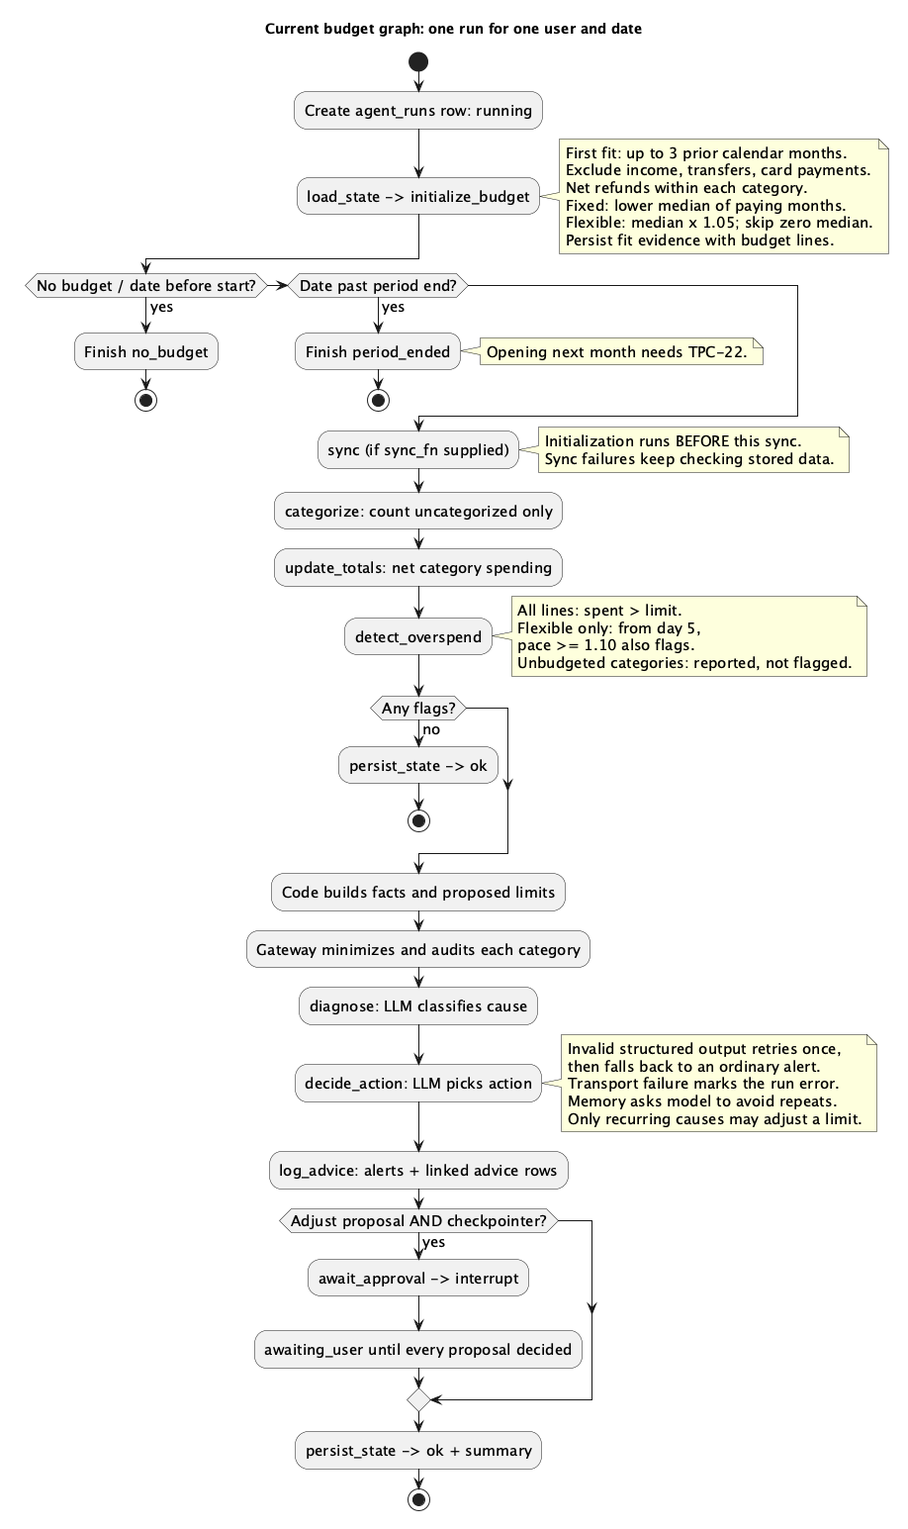
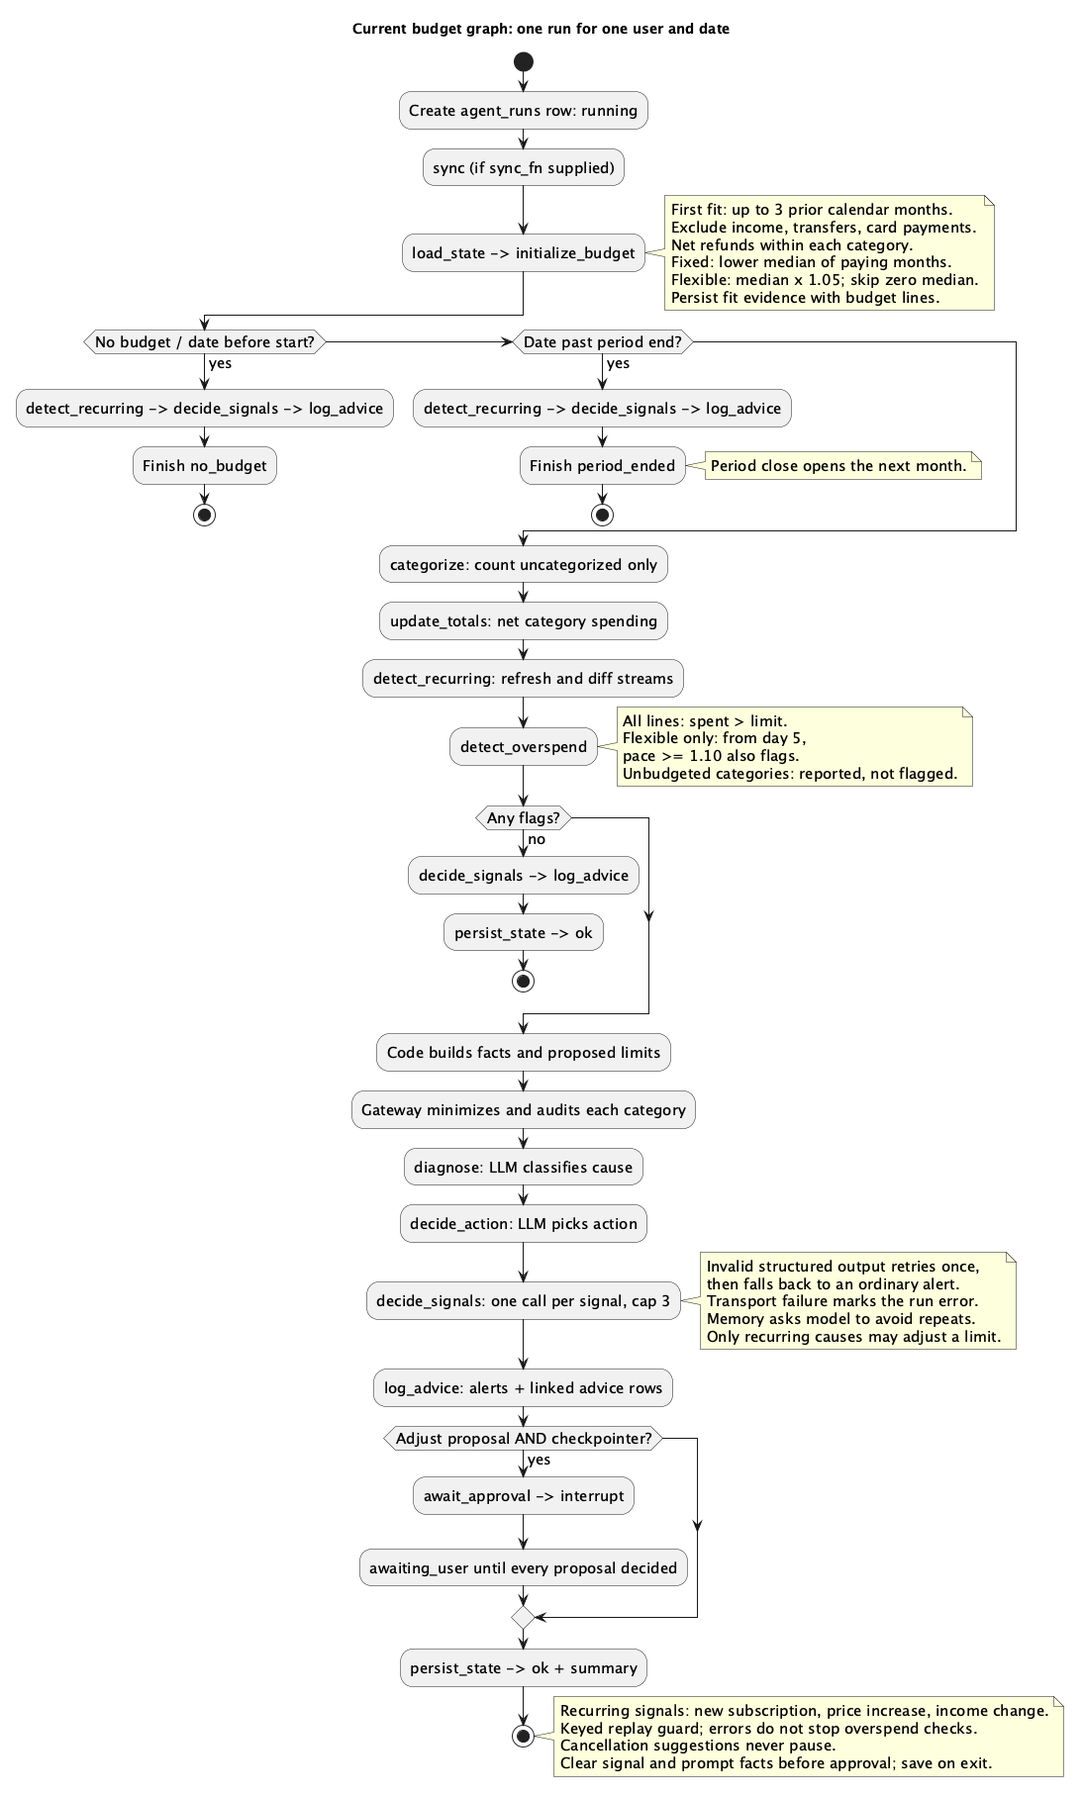
docs(TPC-33): recurring streams end to end, docs and manual verification

Changed region(s): [[0.0305, 0.0, 1.0, 0.9942]]

diff --git a/backend/tests/test_recurring_loop.py b/backend/tests/test_recurring_loop.py
@@ -1,0 +1,76 @@
+from datetime import date
+
+import pytest
+
+from app import config
+from app.api import budget_hooks
+from app.budget_engine.recurring import monthly_cents
+from app.budget_engine.signals import cancel_limit
+from app.budget_service.alerts import decide_alert
+from app.budget_service.simulate import advance_days
+from app.db.models import Alert, BudgetPeriod
+from eval.budget_users import RECURRING_USERS, seed_profile
+from tests.fakes import SchemaReplyModel
+
+
+@pytest.fixture
+def month(db, tmp_path, monkeypatch):
+    monkeypatch.setattr(config, "PROMPT_AUDIT_PATH", tmp_path / "audit.jsonl")
+    monkeypatch.setattr(config, "DEV_USER_EMAIL", "recurring-planted@eval.local")
+    monkeypatch.setattr(budget_hooks, "session_factory", db)
+    with db() as s:
+        uid = seed_profile(s, RECURRING_USERS[0], until=date(2026, 9, 30))
+    model, days = SchemaReplyModel(signal_action="suggest_cancel"), {}
+    def record(day):
+        with db() as s:
+            days[day["date"]] = [(a.kind, a.message) for a in s.query(Alert).filter_by(user_id=uid)]
+    advance_days(db, uid, 25, model=model, checkpointer=None, on_day=record)
+    return uid, model, days
+
+
+def test_every_planted_stream_is_detected(client, month):
+    body = client.get("/recurring").json()
+    assert {r["label"] for r in body["streams"]} == {"Landlord", "Income", "Streamly", "FitClub Gym", "Clipflix", "NewFlix"}
+    assert next(r for r in body["streams"] if r["direction"] == "in")["frequency"] == "biweekly"
+
+
+def test_the_gym_price_alert_fires_on_the_run_after_the_higher_charge(month):
+    _, _, days = month
+    assert not any(k == "price_increase" for k, _ in days["2026-10-02"])
+    for day in ("2026-10-03", "2026-10-25"):
+        messages = [m for k, m in days[day] if k == "price_increase" and "FitClub Gym" in m]
+        assert len(messages) == 1 and "$40.00" in messages[0] and "$43.00" in messages[0]
+
+
+def test_a_rise_over_ten_percent_also_alerts(month):
+    _, _, days = month
+    assert not any(k == "price_increase" and "Clipflix" in m for k, m in days["2026-10-19"])
+    assert len([m for k, m in days["2026-10-20"] if k == "price_increase" and "Clipflix" in m]) == 1
+
+
+def test_the_new_subscription_alert_fires_when_its_third_charge_posts(month):
+    _, _, days = month
+    assert not any(k == "new_subscription" for k, _ in days["2026-10-11"])
+    [message] = [m for k, m in days["2026-10-12"] if k == "new_subscription"]
+    assert "NewFlix" in message
+    assert len([m for k, m in days["2026-10-25"] if k == "new_subscription"]) == 1
+
+
+def test_a_merchant_with_two_visits_is_never_a_stream(client, month):
+    assert not any(name in client.get("/recurring").text for name in ("Pottery Studio", "Grocer", "Fuel"))
+
+
+def test_accepting_a_cancel_suggestion_reaches_next_months_line(client, db, month):
+    uid, model, _ = month
+    with db() as s:
+        alert = next(a for a in s.query(Alert).filter_by(user_id=uid, kind="price_increase") if "Clipflix" in a.message)
+        assert alert.action == "suggest_cancel"
+        alert_id = alert.id
+    decide_alert(db, uid, alert_id, "accepted")
+    advance_days(db, uid, 7, model=model, checkpointer=None)
+    with db() as s:
+        period = s.query(BudgetPeriod).filter_by(user_id=uid, start_date=date(2026, 11, 1)).one()
+        line = next(ln for ln in period.lines if ln.category == "ENTERTAINMENT")
+        from app.db.models import AgentRun
+        [outcome] = s.query(AgentRun).filter_by(user_id=uid, graph="close").one().summary_json["cancel_outcomes"]
+        assert line.limit_cents == outcome["new_cents"] == cancel_limit(outcome["old_cents"], monthly_cents(1799, "monthly"))

diff --git a/backend/tests/fakes.py b/backend/tests/fakes.py
@@ -106,6 +106,7 @@ class SchemaReplyModel(BaseChatModel):
     seen: list = Field(default_factory=list)
     cause: str = "one_time"
     first_action: str = "alert"
+    signal_action: str = "alert"
 
     @property
     def _llm_type(self) -> str:
@@ -116,6 +117,8 @@ class SchemaReplyModel(BaseChatModel):
         title = (kwargs.get("format") or {}).get("title")
         if title == "Diagnosis":
             body = {"cause": self.cause, "evidence": "One purchase explains it."}
+        elif title == "SignalAction":
+            body = {"action": self.signal_action, "message": "A recurring change needs a look."}
         elif "Earlier alerts for this category this month: none" in str(messages[-1].content):
             body = {"action": self.first_action, "message": "This category is over budget."}
         else:

diff --git a/backend/tests/test_m3_demo.py b/backend/tests/test_m3_demo.py
@@ -48,7 +48,7 @@ def test_m3_demo(db):
     run_day = {d["run_id"]: date.fromisoformat(d["date"]) for d in days}
 
     with db() as s:
-        alert = s.query(Alert).filter_by(user_id=uid, category=GYM).order_by(Alert.id).first()
+        alert = s.query(Alert).filter_by(user_id=uid, category=GYM, kind="overspend").order_by(Alert.id).first()
         advice = s.query(AdviceLog).filter_by(alert_id=alert.id).one()
         october = {ln.category: ln for ln in period(s, uid, OCT).lines}
         oct_actuals = {ln.category: ln.spent_cents for ln in october.values()}

diff --git a/docs/handoffs/2026-11-02-tpc-33-manual-verification.md b/docs/handoffs/2026-11-02-tpc-33-manual-verification.md
@@ -1,0 +1,63 @@
+# TPC-33 recurring streams: manual verification
+
+Tasks 1–8 are implemented. Recurring charges and income now appear on the dashboard and through `GET /recurring` and `get_recurring()` in chat. Daily runs alert on new subscriptions, price increases and income changes. Accepted cancellation suggestions lower the next budget line once and mute later signals, without pausing or cancelling anything with a merchant.
+
+## Setup
+
+Use a disposable database and checkpoint directory. From the repo root, in terminal 1:
+
+```bash
+cd backend
+export TPC33_CHECK_DIR="$(mktemp -d /tmp/tpc33-manual.XXXXXX)"
+export DATABASE_URL="sqlite:///${TPC33_CHECK_DIR}/recurring.db"
+export PROMPT_AUDIT_PATH="${TPC33_CHECK_DIR}/audit.jsonl"
+export BUDGET_CHECKPOINT_PATH="${TPC33_CHECK_DIR}/budget.db"
+export CHAT_CHECKPOINT_PATH="${TPC33_CHECK_DIR}/chat.db"
+export FERNET_KEY="$(../venv/bin/python -c 'from cryptography.fernet import Fernet; print(Fernet.generate_key().decode())')"
+../venv/bin/alembic upgrade head
+../venv/bin/python scripts/seed_budget_user.py --profile recurring-planted --replace --start 2026-09-30
+DEV_USER_EMAIL=recurring-planted@eval.local ENABLE_ADMIN=1 ../venv/bin/uvicorn app.main:app
+```
+
+Start Ollama with the configured chat model for interactive advice. In terminal 2 start `npm run dev` from `frontend/`; open the dashboard at localhost:3000. Use the Alerts page's advance controls, or run `scripts/simulate.py --user budget-recurring-planted --days 25` from `backend/` with the same exported database and checkpoint variables. Do not advance the same user concurrently through both interfaces.
+
+## Checks
+
+1. Advance to Oct 2. The recurring card lists Landlord, Income (biweekly), Streamly, FitClub Gym and Clipflix. Pottery Studio, Grocer and Fuel are absent. No new-subscription flood occurs.
+2. Advance one day. One gym price alert says $40.00 to $43.00. Its dashboard badge says `Price up $40.00 to $43.00`. Repeat a daily run and no duplicate recurring alert appears.
+3. Advance to Oct 12. NewFlix appears after its third charge, with one new-subscription alert. The Alerts page uses the new signal labels rather than `Over limit`.
+4. Advance to Oct 20 and then Oct 25. Clipflix gets one price alert, despite its rise exceeding 10%. All six planted streams remain listed.
+5. If the model chooses `suggest_cancel`, accept it and advance past month-end. The category's next line applies accepted adjustments first, then subtracts the stream's normalized monthly typical amount, rounding up to $5. It skips a missing line or nonpositive result and records that outcome. The same accepted stream is not subtracted again next month. Pending cancellation suggestions remain answerable after month-end. Nothing cancels the merchant subscription automatically.
+6. A new user has the empty recurring text and history hint. Inflows use Income rather than employer names. Stopped streams appear under No longer seen.
+7. In chat ask `What subscriptions do I have?`. Inspect the tool chip for `get_recurring` and the audit for scrubbed outflow names, dollars and no employer name. Live model selection of this sixth tool has not been run here.
+
+After a second charge at a higher price, `previous_cents` clears and the row badge becomes `Price up`; the original alert retains both figures. This is expected.
+
+## Automated evidence
+
+Offline backend: **1,160 passed, 22 live/sandbox cases excluded**. Frontend: **122 passed**. Lint and TypeScript checks passed. End-to-end tests advance real daily runs from Sep 30 through Oct 25, verify the exact first alert dates and accept a cancellation through the real close path. Checkpoint tests inspect SQLite rows, graph snapshots and file bytes and successfully resume.
+
+`venv/bin/python eval/recurring_accuracy.py` passed:
+
+| Profiles | Precision | Recall | False streams | Misses |
+|---|---:|---:|---:|---:|
+| Each of all 12 profiles | 1.00 | 1.00 | 0 | 0 |
+| Pooled | 1.00 | 1.00 | 0 | 0 |
+
+Noisy everyday share: 1.0. Monthly next dates: 372 cases; 313 within one day, maximum error two days (241 exact, 72 one day, 59 two days).
+
+PlantUML was available; the data-model, budget-loop and lifecycle SVGs and PNGs were rendered. Pre-existing documentation and diagram edits remain in the working tree; only recurring additions were staged for this work.
+
+The production build was attempted with both bundlers. Turbopack is blocked by local worker-port binding (`Operation not permitted`), including the escalated attempt. The webpack fallback cannot resolve `fonts.googleapis.com` for the existing Geist fonts. These environment failures remain unverified production-build checks; they were not counted as passing. No app font or build configuration was changed to conceal them.
+
+## Not run and known limits
+
+Postgres migration, real Plaid streams and live chat tool choice were not run. Measurements remain synthetic. The detector's short-gap, restart, skipped-month and price-step behavior is covered offline; annual detection is deferred. Price creep below the threshold stays silent; a large rise can alert on its second charge; metered utilities deliberately do not raise rate-change alerts. Subscription categories remain flexible budget lines, so early-month pace flags remain possible.
+
+For a later Plaid comparison: use Sandbox credentials and an Item linked after the 180-day request change; add a client wrapper for `/transactions/recurring/get`; match its rows to ours by normalized merchant key, direction and frequency; report agreement separately from synthetic precision and recall. That wrapper/comparison is not built. Existing Items need relinking to request longer history. The metered utility taxonomy names still need confirmation against the applicable Plaid category version.
+
+PR #23's description warning from the investigation remains open: avoid mentioning an unfinished ticket in a merged PR description because the Jira trigger may close it. No PR text or Jira state was changed by this work.
+
+## Next handoff
+
+Continue with the approved [cash-flow forecast plan](../superpowers/plans/2026-11-02-tpc-31-cash-flow-forecast.md) on a new branch from this work. It reuses the detector, calendar projection, signal decisions and current/no-current-budget routing. Preserve the unrelated local documentation, diagram and old eval-result edits.

diff --git a/README.md b/README.md
@@ -193,6 +193,22 @@ The API has `PUT /budget/style`, `PATCH /budget/lines/{id}` (rename a line, or m
 
 The dashboard's **Paying off your debts** card compares the two usual ways to pay off debt: **avalanche** (highest APR first) and **snowball** (smallest balance first). Type an extra amount per month and it shows each method's months to debt-free, total interest, the month each debt is paid off, and what the extra saves. In chat, ask "How fast am I debt-free if I add $200 a month?" and the answer comes from the same simulation. It charges interest monthly at APR/12 and holds minimum payments at today's amounts, so it's for comparing plans, not predicting a statement. Debts with no APR or minimum on file are listed and left out. The API is `POST /debt-plan`.
 
+## Recurring charges
+
+The dashboard lists stored recurring charges and income between Goals and Transactions. The daily run detects posted transactions over 180 days, raises new-subscription, price-increase and income-change alerts, and keeps stopped streams in a muted group. Chat can answer "What subscriptions do I have?" with `get_recurring`; `GET /recurring` reads the same stored data without running detection.
+
+Accepting an optional `suggest_cancel` lowers the category's next budget line once, after accepted budget adjustments, rounded up to $5. It does not cancel anything with a merchant. Pending suggestions survive month-end, and accepted streams stop raising recurring signals. These alerts do not pause the run.
+
+```bash
+cd backend
+../venv/bin/python scripts/seed_budget_user.py --profile recurring-planted --replace --start 2026-09-30
+DEV_USER_EMAIL=recurring-planted@eval.local ENABLE_ADMIN=1 ../venv/bin/uvicorn app.main:app
+# in another terminal, with the same disposable DATABASE_URL:
+../venv/bin/python scripts/simulate.py --user budget-recurring-planted --days 25
+```
+
+Use a disposable database as described in [the recurring verification handoff](docs/handoffs/2026-11-02-tpc-33-manual-verification.md). New Plaid Items request 180 days; existing Items need relinking. The offline detector gate is `venv/bin/python eval/recurring_accuracy.py` from the repo root.
+
 ## Goals
 
 Open **Goals** from the dashboard header. **Generate goals** asks the goal agent to work out what you have left in a typical month, asks the local model for 1-3 goals (debt payoff, emergency fund, savings) that fit within 80% of it, and computes each goal's target and date. High-interest debt comes first. Accept or dismiss each goal on its own. An accepted goal shows on the dashboard's Goals card and joins the budget as a line (for example "Debt payoff: $583.00/mo") when the next month opens; the month under way never changes. **Stop** ends an accepted goal's line at the next close. A proposal you don't answer expires when that month opens, and you can generate again. The API is `POST /goals/generate`, `GET /goals/runs/{id}`, `POST /goals/{id}/accept` and `/dismiss`.

diff --git a/docs/system-walkthrough.md b/docs/system-walkthrough.md
@@ -27,7 +27,8 @@ Evidence: [API registration](../backend/app/main.py), [proxy](../frontend/next.c
 | Daily scheduler | Planned TPC-21 | Due-job policy, user timezone, overlap, missed runs and restart recovery |
 | Period close | Pure adjustment function implemented | TPC-22 orchestration: persist close and open next month atomically |
 | Debt simulation, goal agent, Goals page (TPC-23 to TPC-25) | Implemented: goals are proposed, accepted or dismissed per goal, and accepted goals become budget lines at the next close | No contribution tracking; the surplus is measured from history until TPC-31's forecast |
-| Recurring detection, cash forecast | Planned | Implement functions, tables, tools, UI and evaluations |
+| Recurring detection | Implemented: detector, stored streams, keyed signals, API, chat tool and dashboard card | Real Plaid comparison remains unverified |
+| Cash forecast | Planned | Implement forecast, buffer, surplus integration and evaluation |
 | Evaluation | Chat and initial-budget harnesses implemented | Longitudinal budget replay and explicit quality gates |
 
 ## 2. Linking and keeping bank data fresh
@@ -65,7 +66,7 @@ The design's strongest separation is already implemented: code computes limits, 
 Current arithmetic and defaults:
 
 - Fit up to three previous calendar months, excluding transfers, income and credit-card payments. Net refunds inside each category, with a floor of zero.
-- Fixed limits use the lower median of months with a payment. Current default fixed primary categories are `RENT_AND_UTILITIES` and `LOAN_PAYMENTS`; automatically recognizing subscriptions as fixed awaits recurring detection.
+- Fixed limits use the lower median of months with a payment. Current default fixed primary categories are `RENT_AND_UTILITIES` and `LOAN_PAYMENTS`; subscriptions remain inside primary categories; recurring detection does not yet convert them to fixed lines.
 - Flexible limits use the monthly median × 1.05. Zero-median categories are skipped. Outlier evidence explains the fit; it does not remove months and recompute the median.
 - All lines flag when actual spending exceeds the limit. Flexible lines also flag from day five when pace reaches 1.10. Fixed bills are not judged by daily pace.
 - Unbudgeted categories are listed but do not raise overspend alerts. Categorization currently counts missing categories rather than assigning them with an LLM.
@@ -152,3 +153,5 @@ All eight diagrams have editable `.puml` sources beside their `.svg` and `.png` 
 plantuml -tsvg -failfast2 docs/diagrams/*.puml
 plantuml -tpng -failfast2 docs/diagrams/*.puml
 ```
+
+Recurring signals and cancellation close behavior are implemented; see [the verification handoff](handoffs/2026-11-02-tpc-33-manual-verification.md).

diff --git a/docs/tests/test_recurring_loop.md b/docs/tests/test_recurring_loop.md
@@ -1,0 +1,43 @@
+# Tests: `backend/tests/test_recurring_loop.py`
+
+Run from `backend/`: `../venv/bin/python -m pytest tests/test_recurring_loop.py -v`.
+
+## Shared setup
+
+Each test seeds recurring-planted through Sep 30 and advances the real daily simulation through Oct 25 with a schema-aware scripted model. The model suggests cancellation on signals and avoids repeated overspend alerts. API identity and audits use the throwaway database.
+
+## `test_every_planted_stream_is_detected`
+
+**What it does:** GET /recurring lists the six planted streams, with generic Income and a biweekly cadence.
+
+**Why it's there:** Verifies the complete recurring seam from seeded charges through real daily runs and persisted results.
+
+## `test_the_gym_price_alert_fires_on_the_run_after_the_higher_charge`
+
+**What it does:** No gym price alert exists Oct 2; exactly one with $40 and $43 exists from Oct 3 through Oct 25.
+
+**Why it's there:** Verifies the complete recurring seam from seeded charges through real daily runs and persisted results.
+
+## `test_a_rise_over_ten_percent_also_alerts`
+
+**What it does:** Clipflix first alerts on Oct 20, despite its rise exceeding 10%.
+
+**Why it's there:** Verifies the complete recurring seam from seeded charges through real daily runs and persisted results.
+
+## `test_the_new_subscription_alert_fires_when_its_third_charge_posts`
+
+**What it does:** NewFlix alerts on its third charge, Oct 12, and older streams do not produce a subscription flood.
+
+**Why it's there:** Verifies the complete recurring seam from seeded charges through real daily runs and persisted results.
+
+## `test_a_merchant_with_two_visits_is_never_a_stream`
+
+**What it does:** Pottery Studio and everyday Grocer and Fuel remain absent from the recurring API.
+
+**Why it's there:** Verifies the complete recurring seam from seeded charges through real daily runs and persisted results.
+
+## `test_accepting_a_cancel_suggestion_reaches_next_months_line`
+
+**What it does:** Accepts the Clipflix suggestion, advances past close, and checks the next line against the recorded cancellation outcome and rounded monthly subtraction.
+
+**Why it's there:** Verifies the complete recurring seam from seeded charges through real daily runs and persisted results.

diff --git a/docs/agent-pipelines.md b/docs/agent-pipelines.md
@@ -135,3 +135,23 @@ The decision is committed before the paused run is resumed, so a failed resume o
 Implementation: [goal graph](../backend/app/agents/goal_graph.py), [decisions](../backend/app/budget_service/goal_decisions.py), [goal lines at close](../backend/app/budget_service/goal_lines.py), [goal routes](../backend/app/api/goals.py), [the design](superpowers/specs/2026-11-02-tpc-25-goal-approval-design.md).
 
 For the broader system, rendered diagrams, and missing pieces, see the [system walkthrough and gap checklist](system-walkthrough.md) and the [architecture](architecture.md).
+
+## Recurring signal path (implemented)
+
+Daily runs refresh stored streams on both the current-budget and no-current-budget routes. Overspend diagnosis remains category-based; recurring signals use their own keys and `decide_signals` node. The first three ranked signals each get one model call without a schema retry; the rest get code-written alerts. All signals have one minimized gateway audit entry. Detector or decision failures record only an exception type and leave overspend checks running.
+
+```mermaid
+flowchart LR
+    Load[Sync and load budget] --> Refresh[detect_recurring]
+    Refresh --> Budget{Current budget?}
+    Budget -->|Yes| Pace[Overspend diagnosis and actions]
+    Budget -->|No| Signals[decide_signals]
+    Pace --> Signals
+    Signals --> Log[Store keyed alerts and advice; clear prompt facts]
+    Log --> Wait{Budget adjustment?}
+    Wait -->|Yes| Pause[Approval interrupt]
+    Wait -->|No| Done[Persist run summary]
+    Pause --> Done
+```
+
+Cancellation suggestions are ordinary pending alerts. Accepted suggestions mute future signals and reduce the next category line once at close; pending suggestions do not expire. Budget checkpoints save only on exit after signal payloads and prompt facts are cleared. CLI report details remain in process memory. The recurring API, dashboard and sixth chat tool are implemented; the cash forecast remains the next step.

diff --git a/docs/superpowers/specs/2026-11-02-tpc-33-31-recurring-and-forecast-design.md b/docs/superpowers/specs/2026-11-02-tpc-33-31-recurring-and-forecast-design.md
@@ -4,6 +4,8 @@ Date: 2026-11-02. Status: **approved, nothing implemented.** The user approved t
 
 Tickets: [TPC-33](https://ucf-ctcw-senior-design.atlassian.net/browse/TPC-33) (recurring streams and alerts) and [TPC-31](https://ucf-ctcw-senior-design.atlassian.net/browse/TPC-31) (forecast and surplus), both M3. TPC-31 depends on TPC-33. Two plans, two PRs: [TPC-33](../plans/2026-11-02-tpc-33-recurring-streams.md) on branch `TPC-33` (stacked on `TPC-25`), then [TPC-31](../plans/2026-11-02-tpc-31-cash-flow-forecast.md). Evidence is in the four [investigation handoffs](../../handoffs/2026-11-02-tpc-33-31-investigation-index.md); "h1" to "h4" below mean investigations 1 to 4.
 
+Status: recurring implementation complete through Task 8; forecast implementation pending.
+
 ## Departures from the tickets (approve before anything is built)
 
 | # | Ticket says | We do instead | Evidence | Cost if wrong |

diff --git a/docs/tests/test_m3_demo.md b/docs/tests/test_m3_demo.md
@@ -24,3 +24,5 @@ Run it from `backend/`:
 3. Advances one more day. Nov 1's daily run closes October first, and November opens with personal care at exactly the accepted $135 (`source="user"`), other flexible needs/wants lines within ±15% of October's, fixed lines (rent, savings) at October's actuals, and the free line equal to the total minus every other line (here $4,200 − $1,500 − $500 − $135 = $2,065).
 
 **Why it's there:** It's the ticket's acceptance test: detection, diagnosis, the human decision and the adaptation at close, all wired together the way a user would live through them.
+
+The demo selects the overspend alert explicitly by kind, so a recurring signal in the same category cannot be mistaken for the budget proposal.
